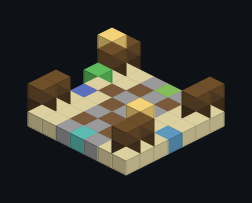
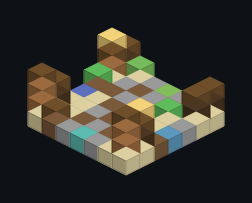
feat(world): uneven palisade stakes and a warning post on the island trails (st4b)

diff --git a/art/structures/pirate_island/path.py b/art/structures/pirate_island/path.py
@@ -1,9 +1,13 @@
 """Generates a straight pirate island trail (7 wide, 7 long, running north-south) and prints the BuildSpec as JSON.
 
-A sand and gravel trail between palisade stakes (stripped spruce logs with sharpened fence tips), open on both sides
-in the middle where the huts attach. Connectors: ``path_in`` on the north end (toward the camp), ``path_out`` on the
-south end (the next trail or a terminator), one ``hut_out`` on each side."""
-from _style import PALETTE, stake
+A sand and gravel trail between crude palisade stakes, open on both sides in the middle where the huts attach.
+Connectors: ``path_in`` on the north end (toward the camp), ``path_out`` on the south end (the next trail or a
+terminator), one ``hut_out`` on each side.
+
+ST4b: the stakes are palm trunks, stripped spruce and dark oak of uneven height with sharpened fence tips (one
+leaning on a stair), lashed into pairs, a lantern and a torch on two of them; gravel and coarse dirt gather at their
+feet, a barrel and a dead bush stand on the verges."""
+from _style import PALETTE, jit, palisade_post, sand_skirt, stair
 from buildspec import Piece
 
 W = L = 7
@@ -18,19 +22,30 @@ for z in range(L):
 for x, z in ((1, 2), (5, 4), (0, 3), (6, 3)):
     p.put(x, 0, z, "coarse")
 
-# palisade stakes along both sides, a gap in the middle for the huts; torches on two of them
+# palisade stakes along both sides in two pairs, a gap in the middle for the huts; uneven heights
 for x in (0, W - 1):
     for z in (0, 1, 5, 6):
-        stake(p, x, 1, z)
-p.put(0, 3, 1, "torch")
-p.put(W - 1, 3, 5, "torch")
-p.put(0, 1, 2, "minecraft:dead_bush")
+        palisade_post(p, x, 1, z, height=1 if (x, z) in ((0, 1), (W - 1, 5)) else 1 + jit(x, 1, z, 61) % 2)
+sand_skirt(p, 0, 0, 0, 1, reach=1, salt=62, density=0.45)
+sand_skirt(p, 0, 5, 0, 6, reach=1, salt=63, density=0.45)
+sand_skirt(p, W - 1, 0, W - 1, 1, reach=1, salt=64, density=0.45)
+sand_skirt(p, W - 1, 5, W - 1, 6, reach=1, salt=65, density=0.45)
+# a stake that has started to lean, propped on an upside-down stair on the verge
+p.put(1, 1, 6, stair("west", "top"))
+# lights: a lantern on the west pair, a torch on the east pair
+for x, z, light in ((0, 1, "lantern"), (W - 1, 5, "torch")):
+    top = max(y for (xx, y, zz) in p.blocks if (xx, zz) == (x, z))
+    if top + 1 < 4:
+        p.put(x, top + 1, z, light)
+p.put(1, 1, 0, "barrel")
+p.put(0, 1, 2, "dead_bush")
+p.put(5, 1, 2, "dead_bush")
 
 p.connector(3, 0, 0, "path_in", "north", "minecraft:gravel")
 p.connector(3, 0, L - 1, "path_out", "south", "minecraft:gravel")
 p.connector(0, 0, 3, "hut_out", "west", "minecraft:coarse_dirt")
 p.connector(W - 1, 0, 3, "hut_out", "east", "minecraft:coarse_dirt")
 
-p.emit("sand and gravel trail between palisade stakes with torches",
+p.emit("sand and gravel trail between uneven palisade stakes with a lantern and a torch",
        ["Runs along z: path_in at the north end, path_out at the south end.",
         "hut_out connectors on both sides at z 3; huts attach with their north (door) side."])

diff --git a/art/structures/pirate_island/path_end.py b/art/structures/pirate_island/path_end.py
@@ -1,9 +1,12 @@
 """Generates the end of a pirate island trail (7 wide, 3 long), the piece of the ``terminators`` pool that closes a
 ``path_out`` once the jigsaw depth runs out, and prints the BuildSpec as JSON.
 
-The trail fades into sand behind a row of palisade stakes with a torch post in the middle. ``path_in`` is on the
-north end."""
-from _style import PALETTE, stake, torch_post
+The trail fades into sand behind a row of palisade stakes. ``path_in`` is on the north end.
+
+ST4b: the stakes are uneven (palm, stripped spruce and dark oak with fence tips), the middle one a palm warning post
+with a skull on it, a lantern on the stake beside it, a crate and a dead bush in front, gravel and coarse dirt at the
+foot of the row."""
+from _style import PALETTE, jit, palisade_post, sand_skirt
 from buildspec import Piece
 
 W, L = 7, 3
@@ -14,14 +17,20 @@ p.fill(0, 0, 0, W - 1, 0, L - 1, "sand")
 p.fill(2, 0, 0, 4, 0, 0, "gravel")
 p.put(3, 0, 1, "coarse")
 p.put(2, 0, 1, "path")
+p.put(4, 0, 1, "gravel")
 
-for x in (0, 1, 5, 6):
-    stake(p, x, 1, L - 1)
-p.put(2, 1, L - 1, "post")
-p.put(4, 1, L - 1, "post")
-torch_post(p, 3, 1, L - 1)
+for x in (0, 1, 2, 5, 6):
+    palisade_post(p, x, 1, L - 1, height=1 + jit(x, 1, L - 1, 71) % 2)
+palisade_post(p, 4, 1, L - 1, height=1)
+p.put(4, 3, L - 1, "lantern")
+# the warning post: a palm stake with a skull on it
+p.fill(3, 1, L - 1, 3, 2, L - 1, "palm")
+p.put(3, 3, L - 1, "minecraft:skeleton_skull[powered=false,rotation=8]")
+sand_skirt(p, 0, L - 1, W - 1, L - 1, reach=1, salt=72, density=0.6)
+p.put(5, 1, 0, "pirates_n_ships:cargo_crate")
+p.put(1, 1, 0, "dead_bush")
 
 p.connector(3, 0, 0, "path_in", "north", "minecraft:gravel")
 
-p.emit("the end of a trail: palisade stakes and a torch post",
+p.emit("the end of a trail: uneven palisade stakes, a skull on a warning post, a lantern",
        ["Terminator: path_in at [3, 0, 0], nothing else."])
